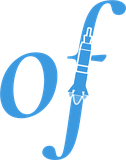
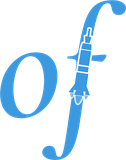
Rotate the rocket in the f slightly counterclockwise
Claude-Session: https://claude.ai/code/session_01MZECRz1zKExAjjwG7KfMTn

Changed region(s): [[0.5238, 0.2188, 0.7381, 0.6562]]

diff --git a/hosting.html b/hosting.html
@@ -6,8 +6,8 @@
   <title>ofHuntsville - Free Websites for Huntsville</title>
   <meta name="description" content="Free websites for Huntsville's local businesses, artists and makers, at yourname.ofhuntsville.org.">
   <meta name="robots" content="noindex">
-  <link rel="icon" type="image/png" sizes="32x32" href="hosting/ofh-icon-32.png?v=14">
-  <link rel="apple-touch-icon" href="hosting/ofh-icon-180.png?v=14">
+  <link rel="icon" type="image/png" sizes="32x32" href="hosting/ofh-icon-32.png?v=15">
+  <link rel="apple-touch-icon" href="hosting/ofh-icon-180.png?v=15">
   <link rel="preconnect" href="https://fonts.googleapis.com">
   <link rel="preconnect" href="https://fonts.gstatic.com" crossorigin>
   <link href="https://fonts.googleapis.com/css?family=Montserrat:400,500,600,700,800|Cormorant+Garamond:500i,600i&display=swap" rel="stylesheet">
@@ -167,7 +167,7 @@
 <body>
   <nav class="nav">
     <div class="container">
-      <a class="wordmark" href="#top"><img class="of" src="hosting/of-rocket.png?v=14" alt="of">Huntsville</a>
+      <a class="wordmark" href="#top"><img class="of" src="hosting/of-rocket.png?v=15" alt="of">Huntsville</a>
       <div class="nav-links">
         <a href="#how" class="hide-sm">How it works</a>
         <a href="#pricing" class="hide-sm">Pricing</a>
@@ -317,7 +317,7 @@
     <div class="container">
       <div class="row">
         <div>
-          <a class="wordmark" href="#top"><img class="of" src="hosting/of-rocket.png?v=14" alt="of">Huntsville</a>
+          <a class="wordmark" href="#top"><img class="of" src="hosting/of-rocket.png?v=15" alt="of">Huntsville</a>
           <p class="tag">Websites for the people of Huntsville.</p>
         </div>
         <nav>
